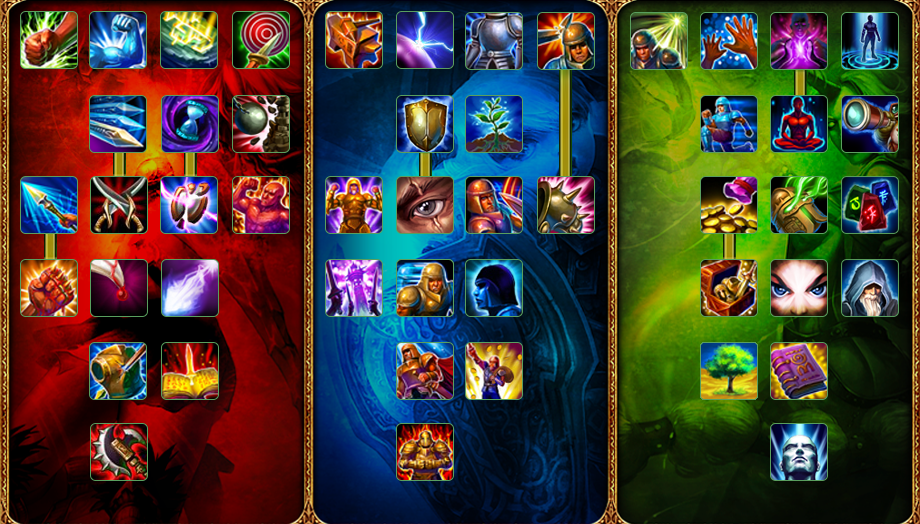
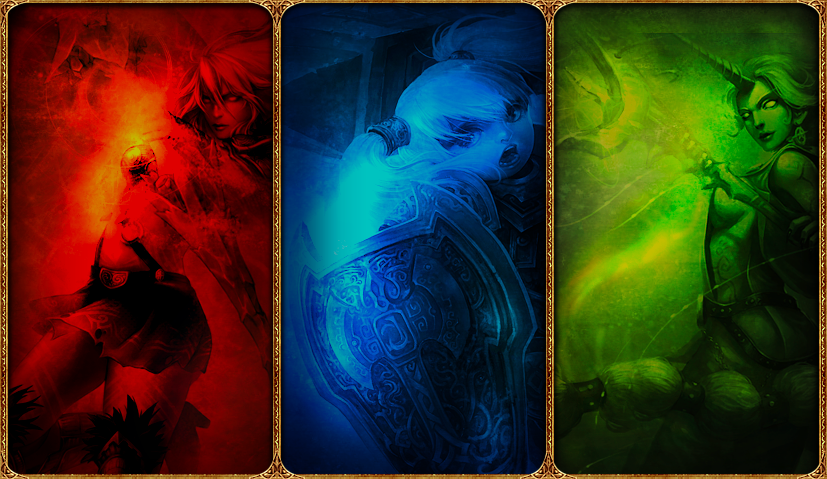
Updated style, but may revert to large again

diff --git a/calculator.js b/calculator.js
@@ -30,7 +30,7 @@ function drawCalculator() {
                     .attr("data-idx",  i)
                     .css({
                         left: pos.x + "px",
-                        bottom: "5px",
+                        bottom: "8px",
                     })
                     .append(
                         $("<span>")
@@ -49,7 +49,7 @@ function drawCalculator() {
 }
 
 function drawButton(tree, index) {
-    var spritePos = masterySpritePos(tree, index)-2;
+    var spritePos = masterySpritePos(tree, index);
     var buttonPos = masteryButtonPosition(tree, index);
     var status = data[tree][index].index < 5 ? "available" : "unavailable";
     var rank = 0;
@@ -61,7 +61,7 @@ function drawButton(tree, index) {
             .css({
                 left: buttonPos.x+"px",
                 top: buttonPos.y+"px",
-                backgroundPosition: "-2px "+spritePos+"px",
+                backgroundPosition: "0px "+spritePos+"px",
             })
             .append(
                 $("<div>")
@@ -263,19 +263,19 @@ function masteryButtonPosition(tree, index) {
     var x=0, y=0;
 
     // padding for tree
-    x += 305 * tree;
+    x += 273 * tree;
     // base padding
-    x += 18;
-    y += 10;
+    x += 22;
+    y += 14;
     // padding for spacing
-    x += ix * (59 + 12);
-    y += iy * (59 + 23.5);
+    x += ix * (52 + 11);
+    y += iy * (52 + 22);
 
     return {x: x, y: y};
 }
 
 function masterySpritePos(tree, index) {
-    return 0 - 58 * (treeOffsets[tree] + index);
+    return 0 - 49.5 * (treeOffsets[tree] + index);
 }
 
 function masteryPointReq(tree, index) {
@@ -367,7 +367,9 @@ function updateLabels() {
 }
 
 function updateLink() {
-    $("#exportUrl").val(document.location.origin + document.location.pathname + "#" + exportMasteries());
+    var hash = exportMasteries();
+    $("#exportUrl").val(document.location.origin + document.location.pathname + "#" + hash);
+    document.location.hash = hash;
 }
 
 // There are max 4 points per mastery, or 3 bits each. There is a 1 bit padding

diff --git a/style.css b/style.css
@@ -1,26 +1,33 @@
+body {
+    background-color: #000;
+}
+
 #s2masteries {
+    background: url(parchment.png);
     font: 11px Arial, Helvetica, sans-serif;
     -moz-user-select: none;
     -khtml-user-select: none;
     -webkit-user-select: none;
     margin: 0 auto;
-    width: 1220px;
-    height: 525px;
+    width: 1099px;
+    height: 624px;
+    padding: 30px;
 }
 
 #panel {
-    padding-top: 20px;
+    margin-top: 100px;
     float: left;
-    width: 300px;
+    width: 230px;
     text-align: center;
 }
 
 #calculator {
     float: left;
     background: url(masteries-background.png);
-    width: 920px;
-    height: 524px;
+    width: 827px;
+    height: 479px;
     position: relative;
+    margin: 72px 0;
 }
 
 .clear {
@@ -49,11 +56,11 @@
 }
 
 .button {
-    width: 55px;
-    height: 55px;
+    width: 48px;
+    height: 48px;
     position: absolute;
     cursor: pointer;
-    border: 3px solid #999;
+    border: 2px solid #999;
     border-radius: 8px;
 }
 
